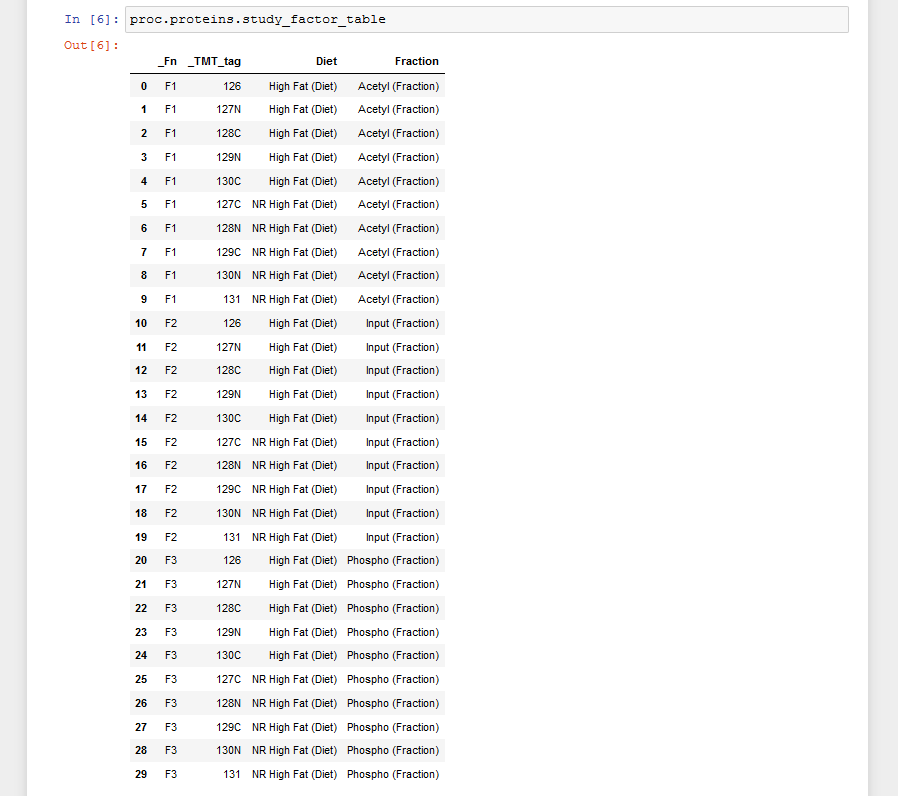
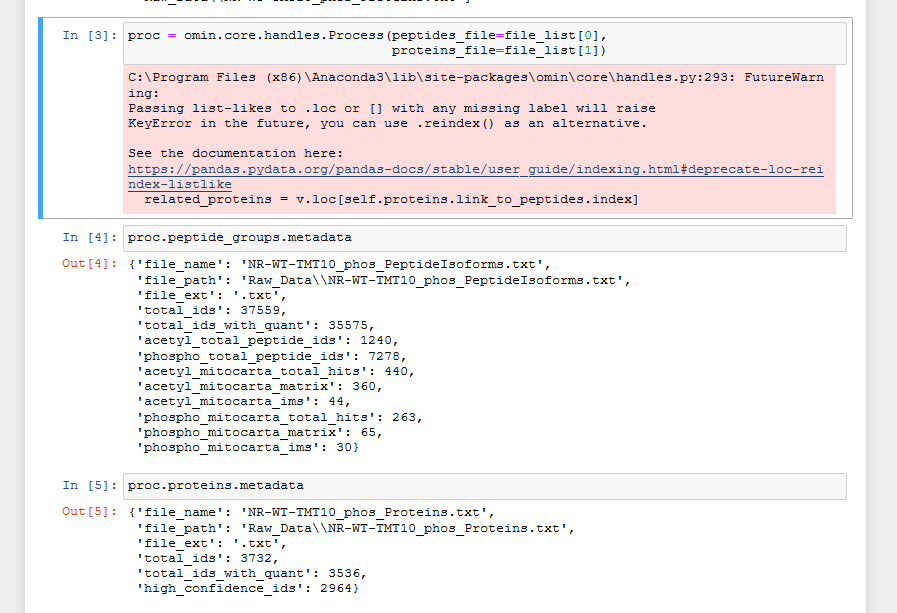
more updates to tutorial

Changed region(s): [[0.0312, 0.0, 0.9365, 0.9918], [0.9365, 0.031, 0.9677, 0.093]]

diff --git a/README.md b/README.md
@@ -67,8 +67,18 @@ If you are running windows we suggest that you install Miniconda3 in `%PROGRAMFI
 
 1. Initialize the software ![usage_0](/images/usage_0.PNG)
 
+1. Drag and drop the peptide isoforms file and proteins file from the Proteome Discoverer analysis into a folder with the name Raw_Data at the same level as the notebook ![usage_1](/images/usage_1.PNG)
+
+1. Create the process object `proc` using the command in cell 3. Can also see meta-data on the from the peptides and proteins by using the commands in cells 4 and 5 ![usage_2](/images/usage_2.PNG)
+
+1. Check that the study factors were isolated correctly by using the command in cell 6 ![usage_3](/images/usage_3.PNG)
+
+1. Check to see if the peptide groups were normalized by using the commands in cell 7 ![usage_4](/images/usage_4.PNG)
+
+1. Then create a mask for the enriched modification you would like to examine using the command in cell 8 ![usage_5](/images/usage_5.PNG)
+
 ---
-## Omin overview
+## Omin process object overview
 
 <p align="center"><img src="/images/omin_state_diagram.png" ></p>
 
